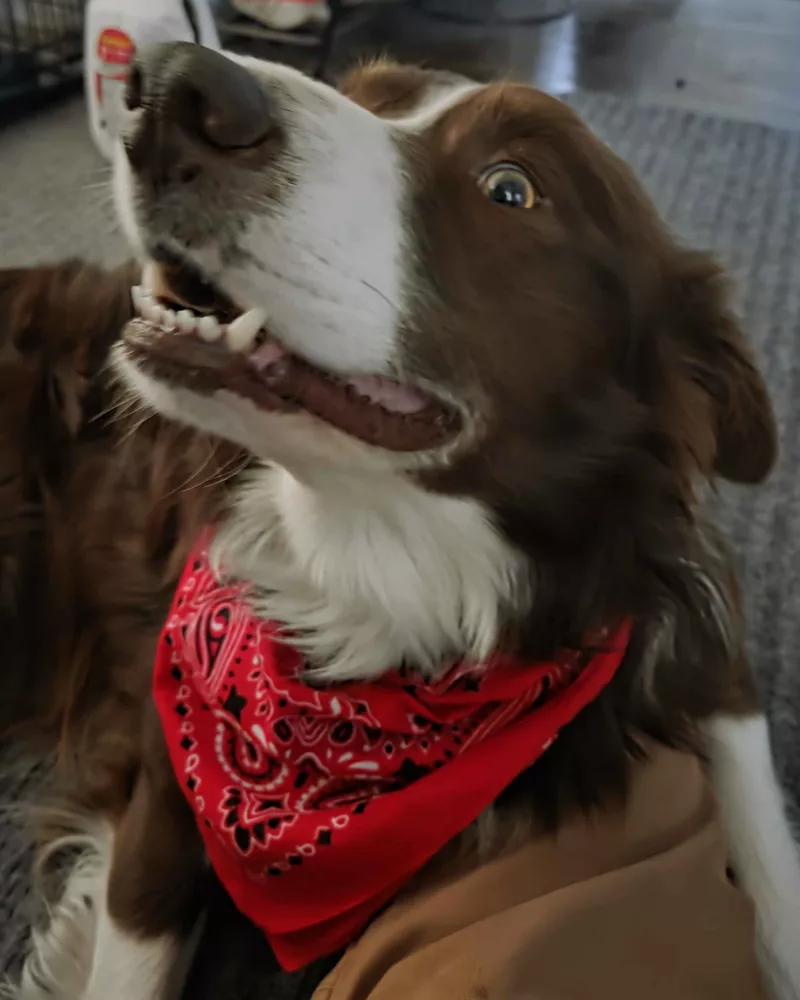
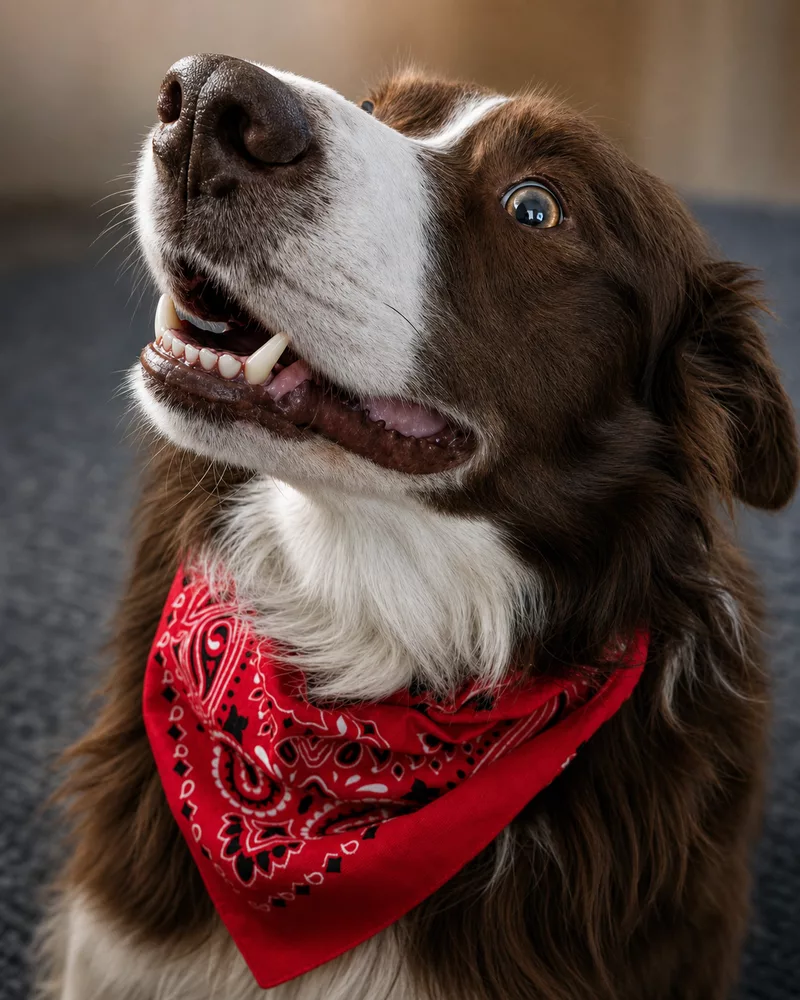
Add staff page and team portraits

diff --git a/index.html b/index.html
@@ -215,6 +215,18 @@ h1,h2,h3,h4{font-family:var(--display);line-height:1.12;letter-spacing:-0.015em;
 .screenshot-frame img{display:block;width:100%;height:auto;border-radius:16px}
 .screenshot-card figcaption{padding:0.9rem 0.35rem 0;color:var(--ink-soft);font-size:0.78rem;text-align:center;font-weight:700;letter-spacing:0.08em;text-transform:uppercase}
 
+/* staff */
+.staff-grid{display:grid;grid-template-columns:repeat(2,1fr);gap:1.75rem}
+.staff-card{display:grid;grid-template-columns:minmax(155px,0.78fr) 1.22fr;background:var(--card);border:1px solid var(--rule);border-radius:10px;overflow:hidden;transition:transform .25s,box-shadow .25s,border-color .25s}
+.staff-card:hover{transform:translateY(-5px);box-shadow:6px 6px 0 rgba(212,160,60,0.35),0 18px 44px rgba(22,34,61,0.10);border-color:rgba(212,160,60,0.55)}
+.staff-photo{min-height:320px;background:var(--paper-deep);overflow:hidden}
+.staff-photo img{display:block;width:100%;height:100%;object-fit:cover}
+.staff-body{padding:2rem 1.8rem;display:flex;flex-direction:column;justify-content:center}
+.staff-body .tag{margin-bottom:1rem}
+.staff-body h2{font-size:1.35rem;margin-bottom:0.55rem}
+.staff-role{color:var(--gold-deep);font-size:0.73rem;font-weight:700;letter-spacing:0.14em;text-transform:uppercase;margin-bottom:1rem;line-height:1.5}
+.staff-body p{color:var(--ink-soft);font-size:0.92rem}
+
 /* pillars (dark) */
 .pillars-grid{display:grid;grid-template-columns:repeat(auto-fit,minmax(265px,1fr));gap:1.75rem}
 .pillar-card{background:rgba(255,255,255,0.04);border:1px solid var(--rule-dark);border-radius:10px;padding:2.1rem;transition:background .3s,transform .25s;position:relative;overflow:hidden}
@@ -303,9 +315,14 @@ h1,h2,h3,h4{font-family:var(--display);line-height:1.12;letter-spacing:-0.015em;
 /* ---------- responsive ---------- */
 @media(max-width:1020px){
   .cards-3,.plates,.price-grid,.consult-grid,.work-grid{grid-template-columns:1fr 1fr}
+  .staff-grid{grid-template-columns:1fr}
   .aud-grid{grid-template-columns:repeat(2,1fr)}
   .screenshots-grid{grid-template-columns:repeat(5,190px);overflow-x:auto;scroll-snap-type:x mandatory;padding:0.25rem 0 1.5rem;scrollbar-color:var(--gold) transparent}
   .screenshot-card{scroll-snap-align:start}
+  .nav-links{display:none}
+  .nav-links.open{display:flex;flex-direction:column;align-items:stretch;position:absolute;top:76px;left:0;right:0;background:var(--navy-deep);padding:1rem 1.5rem 1.5rem;border-top:1px solid var(--rule-dark)}
+  .nav-links.open .dropdown-menu{display:block;position:static;box-shadow:none;border:none;padding-left:0.75rem}
+  .hamburger{display:flex}
 }
 @media(max-width:768px){
   .hero-content{grid-template-columns:1fr;gap:3.5rem;padding:3.5rem 1.5rem 4.5rem}
@@ -314,10 +331,6 @@ h1,h2,h3,h4{font-family:var(--display);line-height:1.12;letter-spacing:-0.015em;
   .ring-text{inset:-44px;width:calc(100% + 88px);height:calc(100% + 88px)}
   .hero-chip{width:54px;height:54px}
   .ticker ul{justify-content:flex-start;gap:0.8rem 1.6rem;padding:1rem 1.5rem}
-  .nav-links{display:none}
-  .nav-links.open{display:flex;flex-direction:column;align-items:stretch;position:absolute;top:76px;left:0;right:0;background:var(--navy-deep);padding:1rem 1.5rem 1.5rem;border-top:1px solid var(--rule-dark)}
-  .nav-links.open .dropdown-menu{display:block;position:static;box-shadow:none;border:none;padding-left:0.75rem}
-  .hamburger{display:flex}
   .section{padding:4.5rem 1.5rem}
   .section-head{grid-template-columns:1fr;gap:1.2rem;align-items:start}
   .section-head .lede{justify-self:start}
@@ -325,6 +338,8 @@ h1,h2,h3,h4{font-family:var(--display);line-height:1.12;letter-spacing:-0.015em;
   .featured-app{grid-template-columns:1fr;gap:2.5rem}
   .featured-app-img .imgring{width:220px;height:220px}
   .screenshots-grid{grid-template-columns:repeat(5,72vw);margin-right:-1.5rem;padding-right:1.5rem}
+  .staff-card{grid-template-columns:1fr}
+  .staff-photo{min-height:0;aspect-ratio:4/5}
   .contact-section{grid-template-columns:1fr}
   .footer-grid{grid-template-columns:1fr;gap:2.2rem}
   .footer-bottom div{flex-direction:column;text-align:center;padding:1.4rem 1rem}
@@ -357,6 +372,7 @@ h1,h2,h3,h4{font-family:var(--display);line-height:1.12;letter-spacing:-0.015em;
     </li>
     <li><a href="#services" data-page="services">Our Services</a></li>
     <li><a href="#work" data-page="work">Our Work</a></li>
+    <li><a href="#staff" data-page="staff">Our Staff</a></li>
     <li><a href="#contact" data-page="contact" class="nav-cta">Get in Touch</a></li>
   </ul>
 </div></nav>
@@ -497,7 +513,7 @@ h1,h2,h3,h4{font-family:var(--display);line-height:1.12;letter-spacing:-0.015em;
     <div class="pq-copy">
       <span class="mark">“</span>
       <blockquote>If you catch me being grumpy, it means I'm intensely focused. Herding software is a serious business.</blockquote>
-      <cite>Argos the Border Collie — Head of Morale</cite>
+      <cite>Argos the Border Collie — Head of Project Management</cite>
     </div>
   </div></div>
 </div>
@@ -762,6 +778,41 @@ h1,h2,h3,h4{font-family:var(--display);line-height:1.12;letter-spacing:-0.015em;
   </div></section>
 </div>
 
+<!-- ============ STAFF ============ -->
+<div class="page" id="page-staff">
+  <div class="page-hero">
+    <svg class="contours" viewBox="0 0 1440 400" preserveAspectRatio="xMidYMid slice" aria-hidden="true">
+      <path d="M-40,300 C240,240 420,360 720,300 C1020,240 1200,340 1480,280" fill="none" stroke="rgba(255,255,255,0.05)" stroke-width="1.3"/>
+      <path d="M-40,350 C260,290 460,400 740,345 C1040,290 1220,380 1480,330" fill="none" stroke="rgba(212,160,60,0.15)" stroke-width="1.3" stroke-dasharray="6 7"/>
+    </svg>
+    <div class="ph-inner"><div class="eyebrow">The People Behind the Work</div><h1>Our Staff</h1><p>A small, hands-on team with practical experience, clear priorities, and a suspiciously high ratio of dogs to humans.</p></div>
+  </div>
+  <section class="section section-paper on-light"><div class="section-inner">
+    <div class="section-head fade-in">
+      <div><div class="eyebrow">Meet the Team</div><h2>Small Team. Serious Follow-Through.</h2></div>
+      <p class="lede">You work directly with the person responsible for your project, supported by an exceptionally attentive canine leadership team.</p>
+    </div>
+    <div class="staff-grid">
+      <article class="staff-card fade-in">
+        <div class="staff-photo"><img src="assets/celina-portrait.webp" alt="Celina, owner and operator of Grumpy Dog Software" width="800" height="1000" loading="lazy" decoding="async"></div>
+        <div class="staff-body"><span class="tag">The Human</span><h2>Celina</h2><div class="staff-role">Owner &amp; Operator</div><p>Celina leads every client relationship and project from first conversation through launch and ongoing support. She combines practical farm experience with a clear-eyed approach to technology, building websites and tools that solve real problems without unnecessary complexity.</p></div>
+      </article>
+      <article class="staff-card fade-in">
+        <div class="staff-photo"><img src="assets/argos-quote.webp" alt="Argos, Head of Project Management" width="800" height="1000" loading="lazy" decoding="async"></div>
+        <div class="staff-body"><span class="tag">Operations</span><h2>Argos</h2><div class="staff-role">Head of Project Management</div><p>Argos keeps a close eye on schedules, priorities, and anyone who appears to be standing still for too long. His management style is focused, direct, and strongly in favour of regular outdoor status meetings.</p></div>
+      </article>
+      <article class="staff-card fade-in">
+        <div class="staff-photo"><img src="assets/luna-portrait.webp" alt="Luna, Head of Morale and Cuteness" width="800" height="1000" loading="lazy" decoding="async"></div>
+        <div class="staff-body"><span class="tag">People &amp; Culture</span><h2>Luna</h2><div class="staff-role">Head of Morale &amp; Cuteness</div><p>Luna makes sure the workday stays balanced, spirits remain high, and no good idea goes uncelebrated. She brings curiosity, enthusiasm, and a well-timed reminder that every difficult problem benefits from a short break.</p></div>
+      </article>
+      <article class="staff-card fade-in">
+        <div class="staff-photo"><img src="assets/max-portrait.webp" alt="Max, Head of Security" width="800" height="1000" loading="lazy" decoding="async"></div>
+        <div class="staff-body"><span class="tag">Security</span><h2>Max</h2><div class="staff-role">Head of Security — Cyber &amp; Otherwise</div><p>Max oversees perimeter checks, unexpected visitors, and anything that looks even slightly unusual. His approach to security is proactive, thorough, and backed by an impressive bark-first escalation policy.</p></div>
+      </article>
+    </div>
+  </div></section>
+</div>
+
 <!-- ============ CONTACT ============ -->
 <div class="page" id="page-contact">
   <div class="page-hero">
@@ -811,6 +862,7 @@ h1,h2,h3,h4{font-family:var(--display);line-height:1.12;letter-spacing:-0.015em;
         <li><a href="#home">Home</a></li>
         <li><a href="#services">Our Services</a></li>
         <li><a href="#work">Our Work</a></li>
+        <li><a href="#staff">Our Staff</a></li>
         <li><a href="#contact">Get in Touch</a></li>
       </ul>
     </div>
@@ -834,7 +886,7 @@ h1,h2,h3,h4{font-family:var(--display);line-height:1.12;letter-spacing:-0.015em;
 const observer=new IntersectionObserver((entries)=>{entries.forEach((entry,i)=>{if(entry.isIntersecting){setTimeout(()=>entry.target.classList.add('visible'),i*90);observer.unobserve(entry.target)}})},{threshold:0.1});
 document.querySelectorAll('.fade-in').forEach(el=>observer.observe(el));
 
-const PAGES=['home','broodi','nutriroots','pethealth','services','contact'];
+const PAGES=['home','broodi','nutriroots','pethealth','services','staff','contact'];
 function route(){
   let id=(location.hash||'#home').replace('#','');
   let activeNav=id;

diff --git a/README.md b/README.md
@@ -4,7 +4,7 @@ Marketing site for Grumpy Dog Software — websites, apps & honest tech help for
 
 ## Structure
 
-- `index.html` — the entire site. A single-page app with hash-based routing (`#home`, `#broodi`, `#nutriroots`, `#pethealth`, `#services`, `#work`, `#contact`). Legacy `#websites` and `#consulting` links redirect to sections of `#services`. No build step, no dependencies.
+- `index.html` — the entire site. A single-page app with hash-based routing (`#home`, `#broodi`, `#nutriroots`, `#pethealth`, `#services`, `#work`, `#staff`, `#contact`). Legacy `#websites` and `#consulting` links redirect to sections of `#services`. No build step, no dependencies.
 - `assets/` — logo and app artwork. `logo.png` (1024px) and `favicon.png` (256px) are derived from `logo.jpg`.
 - `CNAME` — custom domain for GitHub Pages.
 